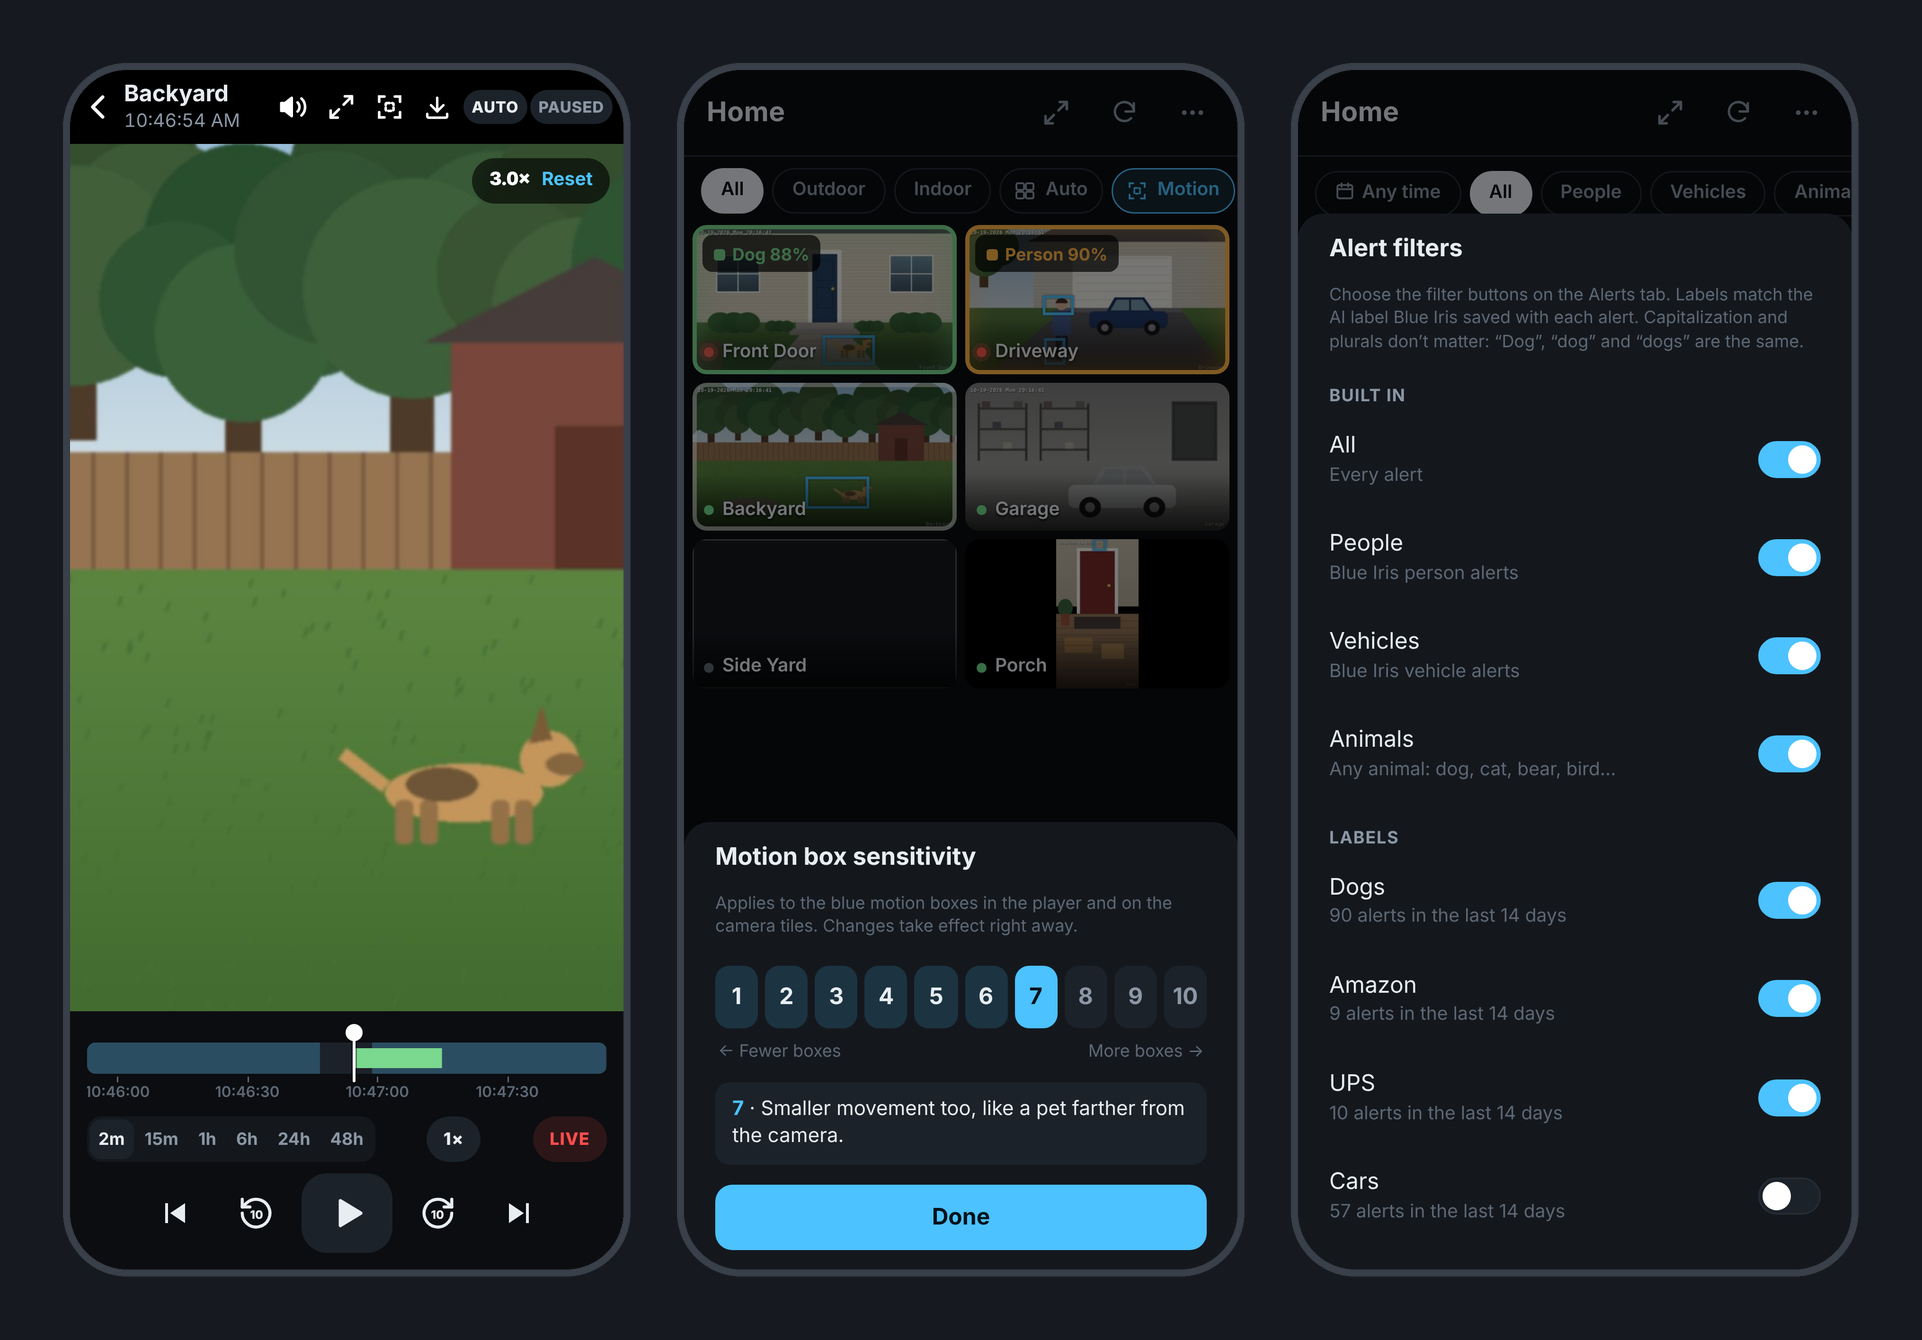
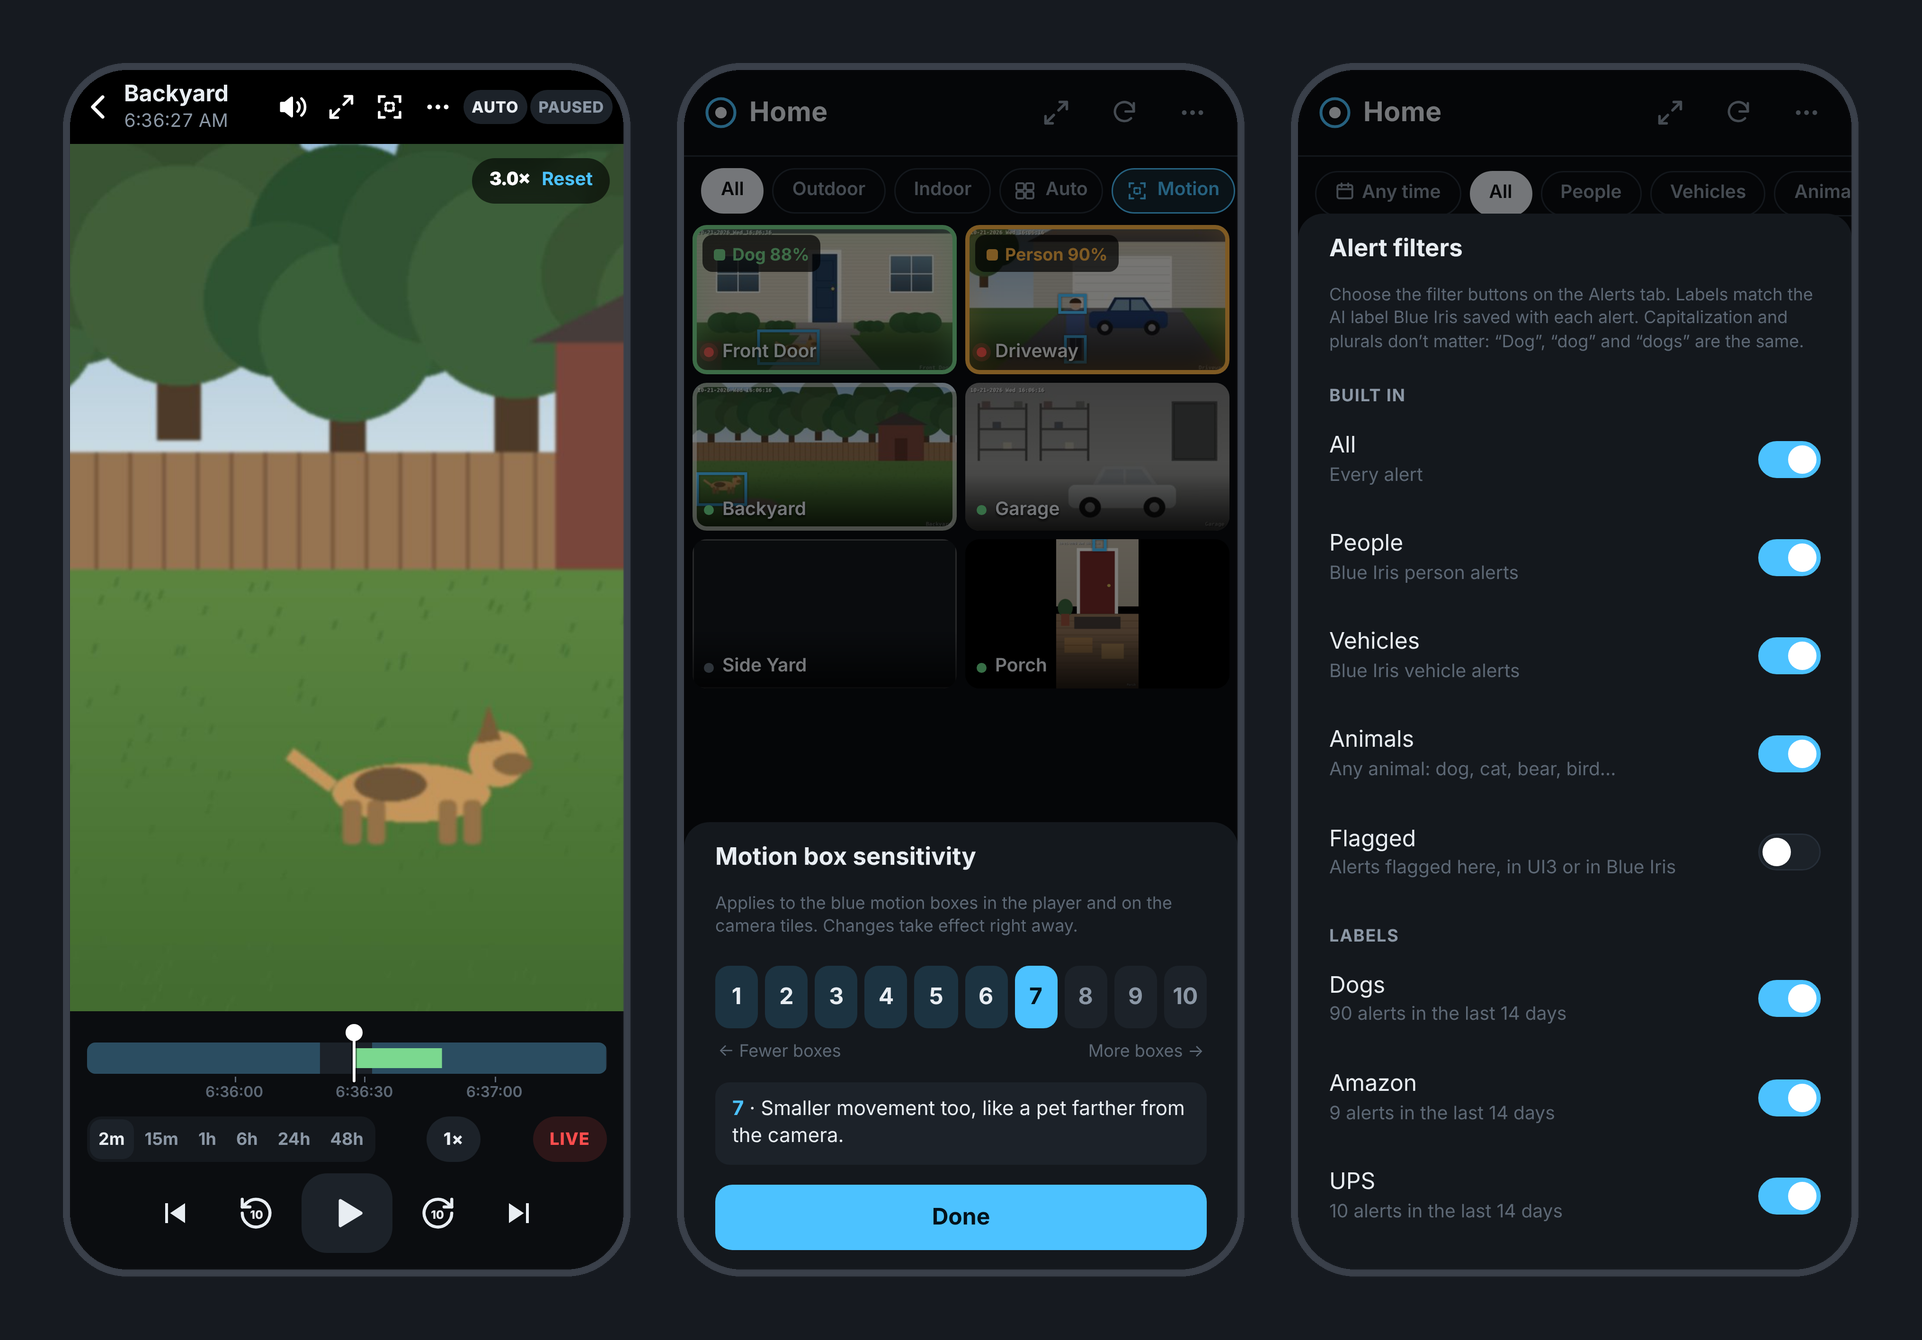
Release 0.14.0
- Version 0.14.0; CHANGELOG dated 2026-10-21.
- README screenshots retaken from the demo server (new header logo, flag
  icons, "..." player button) plus new ones: Server status and System log
  (phone composite, log filtered to warnings & errors), desktop alert
  preview panel, desktop System log searched, desktop Server status.

Claude-Session: https://claude.ai/code/session_01T5ZrvtmFomZ4pfZJka1E5x

diff --git a/www/sightline.htm b/www/sightline.htm
@@ -848,7 +848,7 @@ body.isfs #viewer.hideui{cursor:none}
 'use strict';
 /* Values filled in by the Blue Iris web server when it serves this .htm file */
 const INJECTED_SESSION = "%%SESSION%%";
-const APP = { name: 'Sightline', version: '0.14.0-dev' };   // bump the version with every change you copy to the www folder
+const APP = { name: 'Sightline', version: '0.14.0' };   // bump the version with every change you copy to the www folder
 const INJECTED_SYSNAME = "%%SYSNAME%%";
 /* Note: never write two percent signs together anywhere else in this file \u2014 Blue Iris treats the
    text between them as a placeholder and blanks it out when serving the page. */

diff --git a/README.md b/README.md
@@ -87,11 +87,25 @@ It's built for the two things you do most: **glancing at your cameras** and **fi
 
 ![Settings, color legend and About](docs/screenshots/settings.png)
 
+**Server status and system log** (Settings → Server): CPU, memory, disks and how many days of footage each camera keeps. The system log can be **filtered** (here: warnings & errors) and **searched**.
+
+![Server status, disk usage and cameras, and the system log filtered to warnings and errors](docs/screenshots/server.png)
+
 **Desktop**
 
 ![Live view on desktop with motion boxes](docs/screenshots/desktop-live.png)
 
 ![Playback on desktop](docs/screenshots/desktop-player.png)
+
+Point at an alert to preview it beside the list:
+
+![Alert preview panel on desktop](docs/screenshots/desktop-alerts.png)
+
+Search the system log, for example for "signal":
+
+![System log searched for "signal" on desktop](docs/screenshots/desktop-log.png)
+
+![Server status on desktop](docs/screenshots/desktop-server.png)
 
 <sub>Screenshots use a simulated Blue Iris server with drawn placeholder scenes, not real camera footage.</sub>
 

diff --git a/CHANGELOG.md b/CHANGELOG.md
@@ -2,7 +2,7 @@
 
 All notable changes to Sightline for Blue Iris. Released versions match what **Settings → About** shows; a version ending in `-dev` is a work-in-progress copy from `main`.
 
-## Unreleased (next: 0.14.0)
+## 0.14.0 — 2026-10-21
 
 - **Step frame by frame with `,` and `.`**, like UI3. Pauses, then shows the frame one frame interval back or forward, using the camera's frame rate in Blue Iris. From live, `,` pauses on the frame shown and steps back.
 - **Flag or protect alerts, like UI3.** A new button in the player (or right-click an alert in the list, long-press on Android) opens Flagged and Protected switches. Flagged marks an alert to come back to; Protected stops Blue Iris deleting it in its clean-up. It uses the same Blue Iris command as UI3 and changes only those flags, so UI3 and Blue Iris show the change too. Flagged and protected alerts get small icons in the list. New **Flagged** alert filter (turn it on under Settings → Alert filters). Clear message if the Blue Iris user isn't allowed to change alerts.
